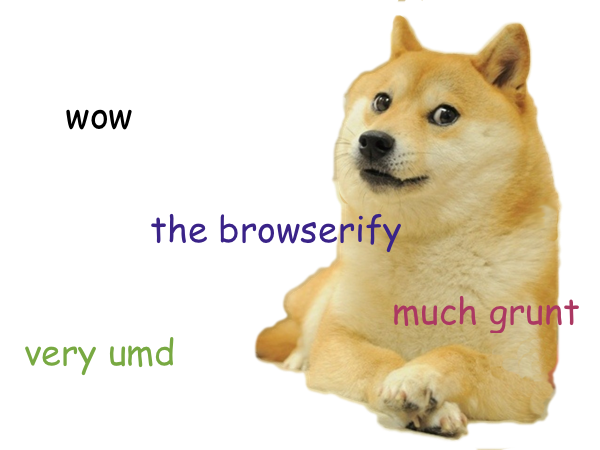
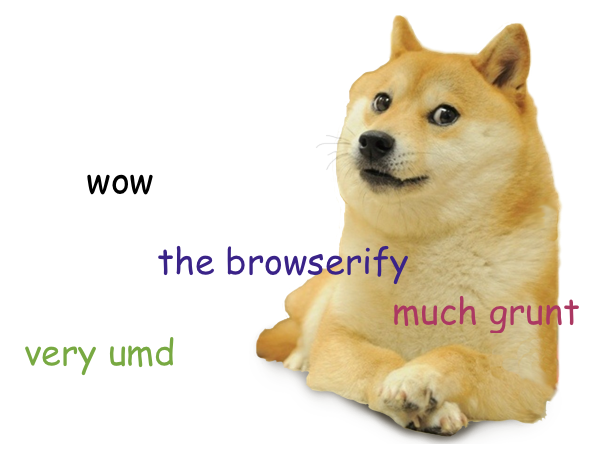
the pixels

diff --git a/README.md b/README.md
@@ -1,6 +1,6 @@
 # wowserify
 
-> wow. the browserify. very umd. much grunt.
+![wow. the browserify. very umd. much grunt.](media/doge.png)
 
 ## What?
 
